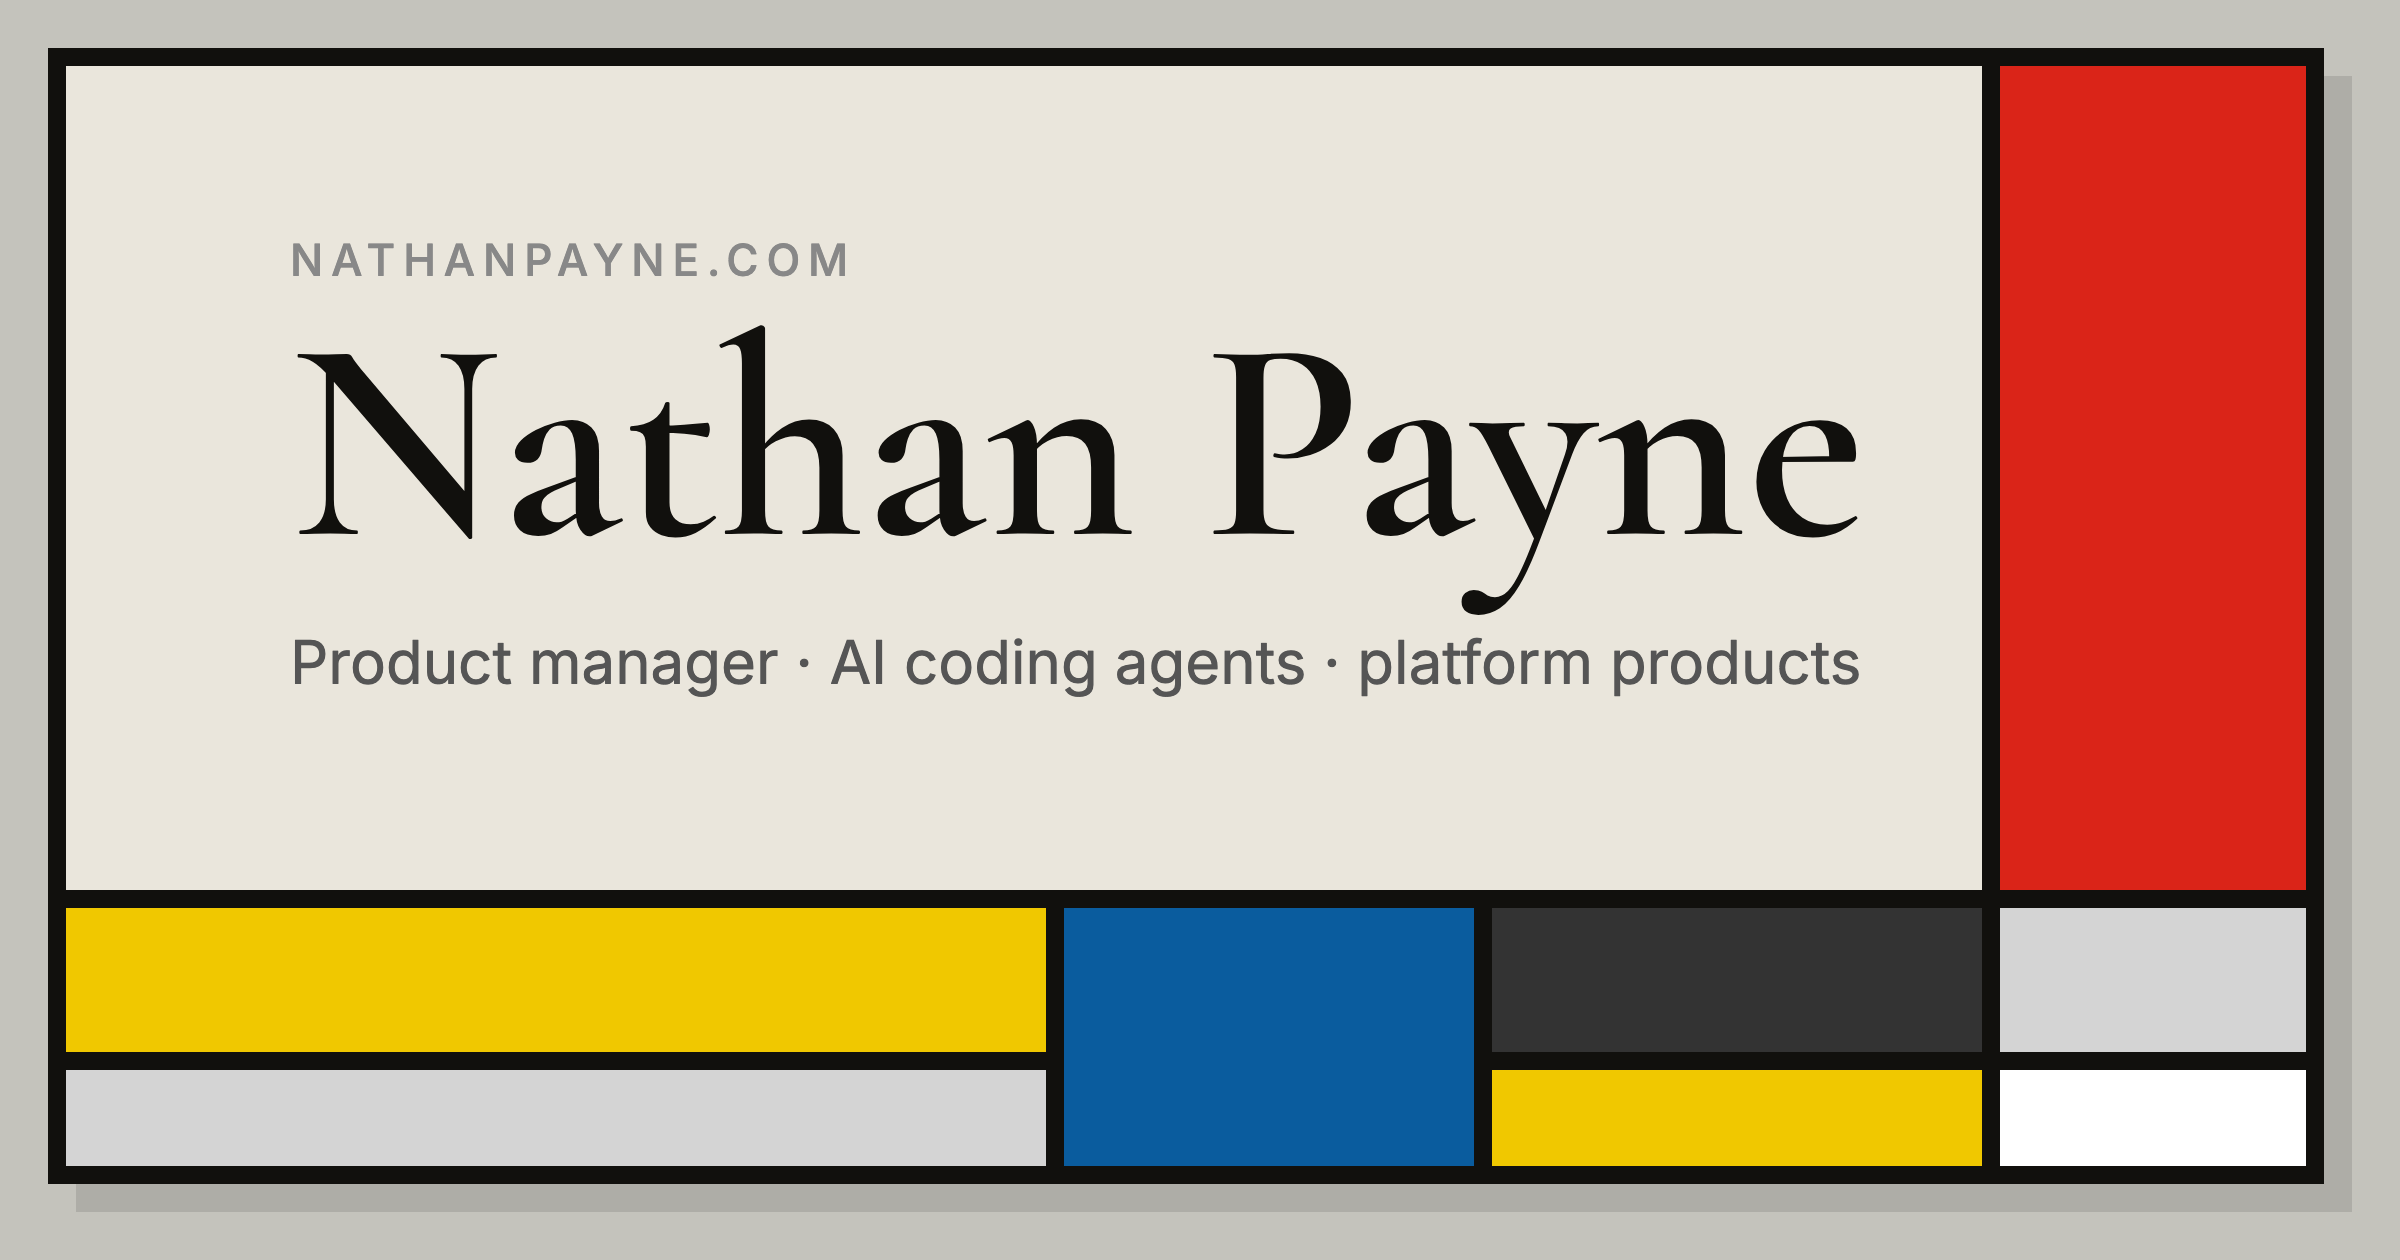
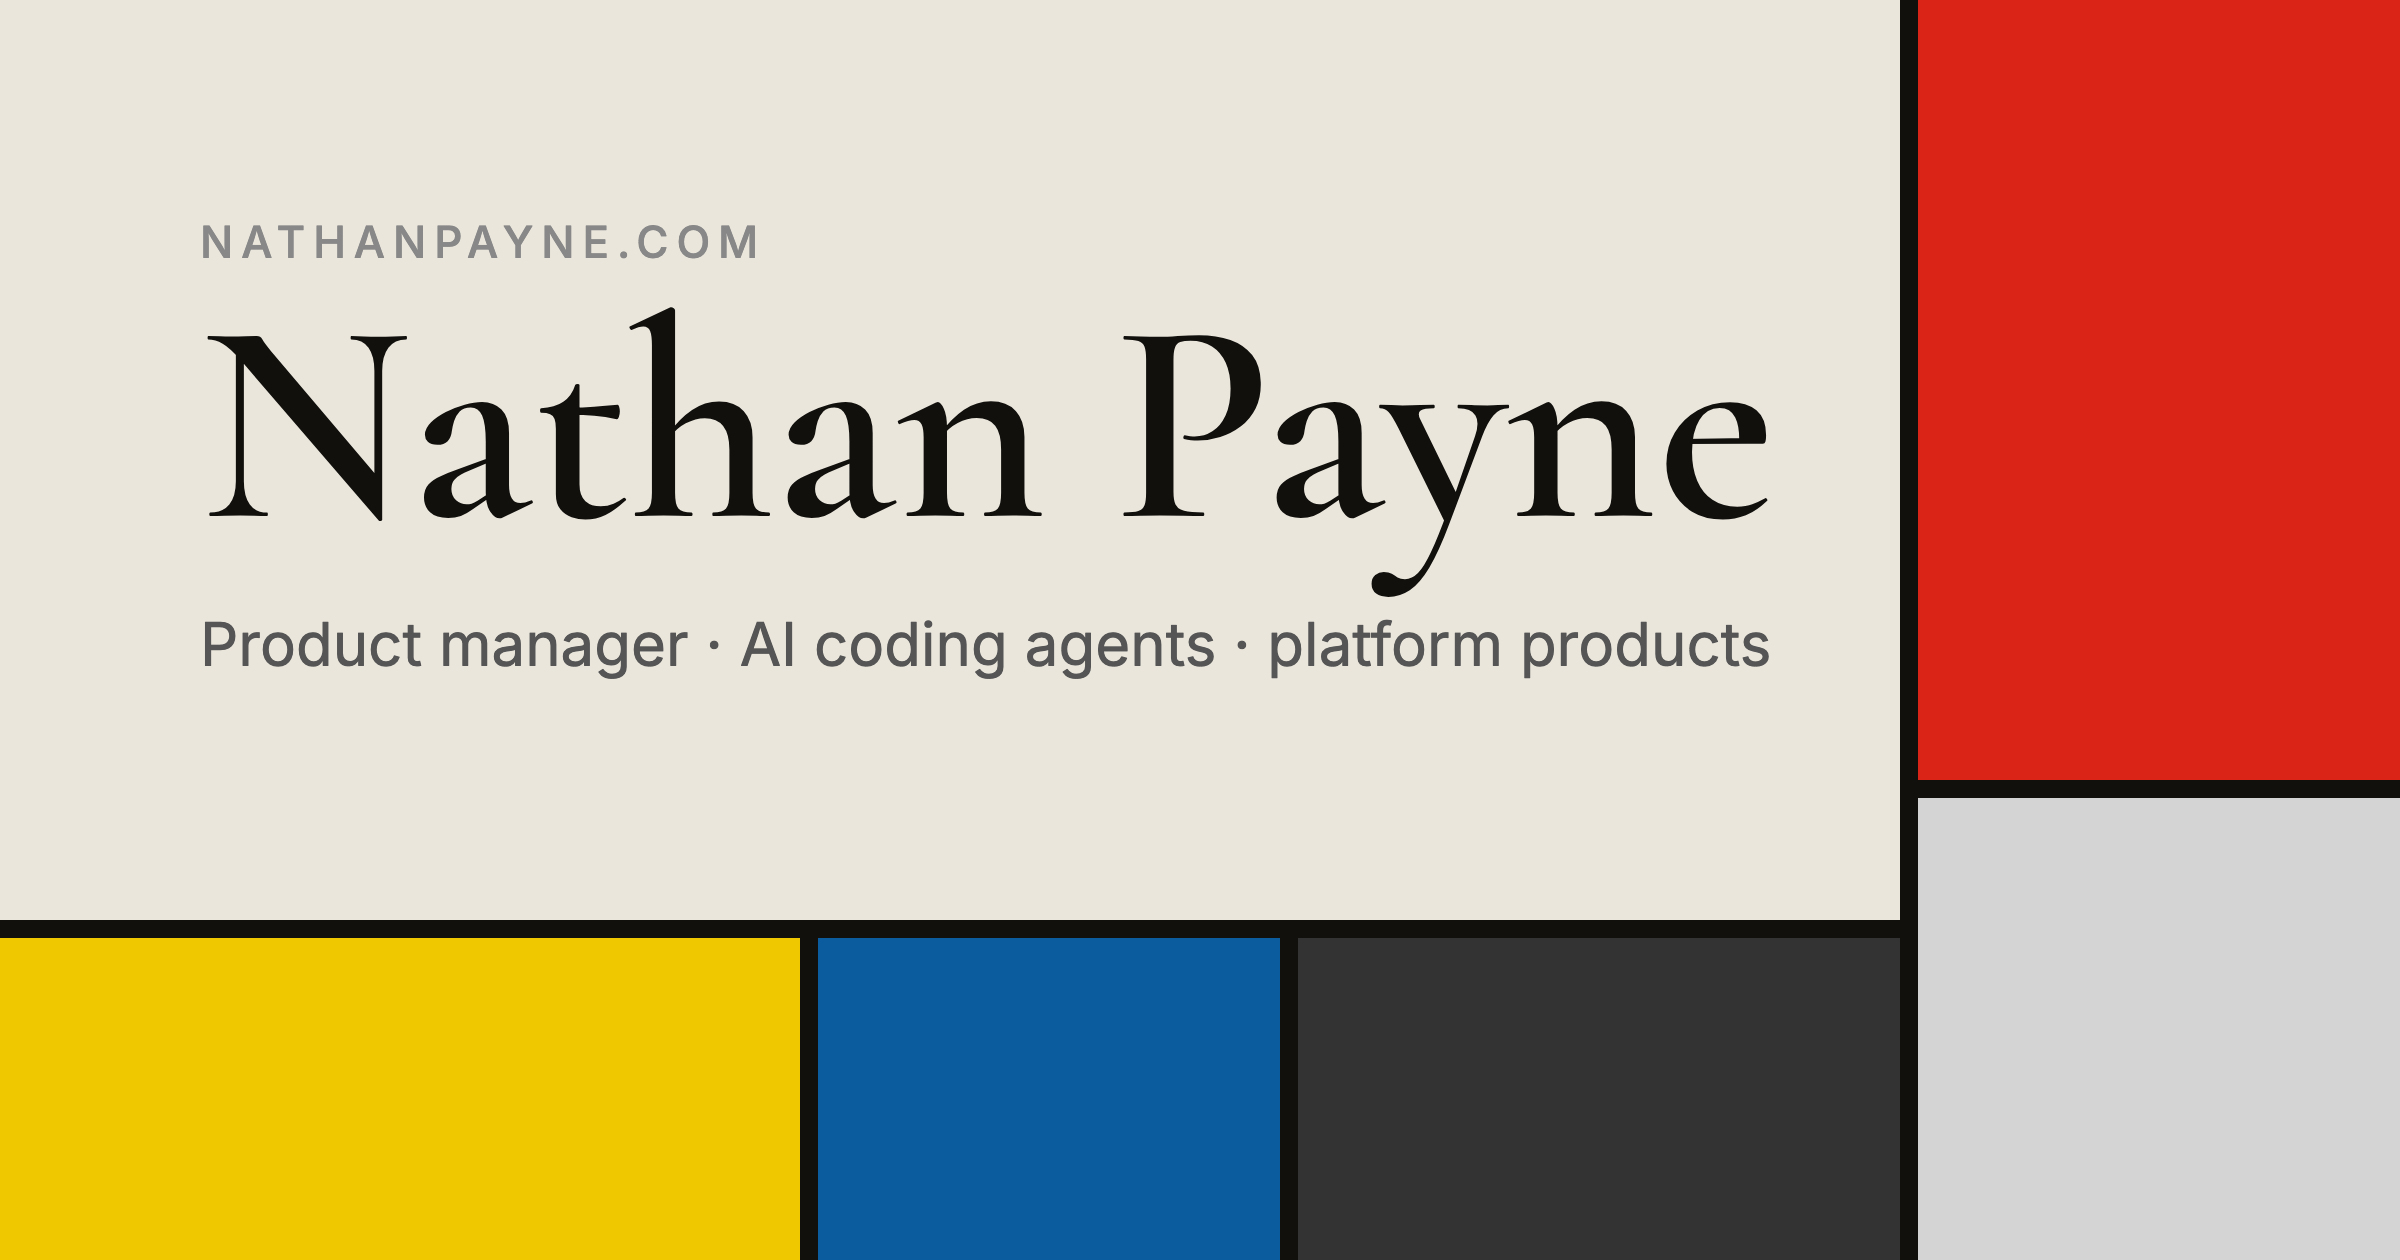
Run the homepage OG card full bleed with no edge structure (#1096)
* Run the homepage OG card full bleed with no edge structure

Link previews crop and round the image differently: X at 2:1, LinkedIn
messaging at about 1.8:1, iMessage with ~30px corner radii at this
scale. The frame-to-edge card (#1090) clipped in iMessage and the gray
mat (#1094) went lopsided in LinkedIn messaging, because anything that
marks the edge survives on some sides and not others.

The crop-safe card now has no stage, frame or shadow. The Mondrian grid
fills the 1200x630 image, every edge cell is a color field that runs off
the edge, and the only lines are interior ones meeting the edge at right
angles, so a crop or rounded corner only trims color. Text sits in the
safe zone (left inset 100px). The layout is Fable's variant V1 from
#1095, chosen by the owner after a simulated review across Facebook, X,
iMessage, Slack, Discord, LinkedIn messaging and a square fallback.

Refs #1095

* docs(og): state the square-fallback trade-off in the crop-safe comment

The comment listed square fallbacks among the crops, then claimed the
text clears every measured crop, which is false for a square. Say which
crops the text clears and that the square trade-off was chosen (#1095).

---------

diff --git a/src/styles/global.css b/src/styles/global.css
@@ -4052,32 +4052,63 @@ a.tag:hover {
   background: var(--paper);
 }
 
-/* Crop-safe variant (OgCard `cropSafe`). Two crops shape it:
-   - Safari's Start Page tiles aspect-fill the card into ~1.67:1, trimming ~6%
-     (~75px here) off each side, and show it ~225pt wide. Hence a wider red
-     column that survives the trim, a left inset that clears it, a heading
-     big enough to read at tile size, and at most a one-line tagline.
-   - iMessage and other unfurls round the image's corners (~30px radius at
-     this scale; Safari's tile ~65px). A frame run to the image edge gets its
-     corners clipped, so a thin stage margin keeps the frame inside the curve.
-     It clears a corner once it exceeds ~0.3× the radius; 24px covers both.
-   The card keeps the shared --canvas-shadow (14px down-right, as on the 404),
-   so the right and bottom margins grow by that offset to leave the shadow the
-   same 24px of gray as the other sides. */
+/* Crop-safe variant (OgCard `cropSafe`). Link previews crop and round the
+   image differently: X shows 2:1 (~15px off top and bottom), LinkedIn
+   messaging ~1.8:1 (~17–33px off each side), iMessage rounds corners (~30px
+   at this scale), and square fallbacks keep only the center 630px (#1095).
+   Any frame, mat or border near the edge survives on some sides and not
+   others (#1090 clipped in iMessage; #1094's mat went lopsided on LinkedIn).
+   So there is no stage, frame or shadow: the grid fills the image, every
+   perimeter cell is a color field that runs off the edge, and the only
+   lines are interior ones meeting the edge at right angles. A crop or a
+   rounded corner then only trims color. Text stays inside x 100–950, y
+   ~110–350, clear of every wide-card crop. Square fallbacks are a known
+   trade-off: their x 285–915 crop shows "than Payne", at ~80px where no
+   text reads anyway. The owner chose this over a centered, two-line name
+   that a square crop keeps (#1095). */
 .og-shell--crop-safe {
-  padding: 24px 38px 38px 24px;
+  display: block;
+  padding: 0;
+  overflow: hidden;
 }
 
 .og-shell--crop-safe .og-card {
-  grid-template-columns: var(--line) 2.4fr var(--line) 1fr var(--line) 1.2fr var(--line) 0.75fr var(
-      --line
-    );
-  grid-template-rows: var(--line) 1fr var(--line) 4.5rem var(--line) 3rem var(--line);
+  width: 1200px;
+  height: 630px;
+  grid-template-columns: 400px var(--line) 231px var(--line) 301px var(--line) 1fr;
+  grid-template-rows: 390px var(--line) 61px var(--line) 1fr;
   border: 0;
+  box-shadow: none;
 }
 
 .og-shell--crop-safe .og-content {
-  padding: 48px 64px 48px 112px;
+  grid-column: 1 / 6;
+  grid-row: 1 / 4;
+  padding: 0 40px 0 100px;
+}
+
+.og-shell--crop-safe .og-red {
+  grid-column: 7;
+  grid-row: 1;
+}
+.og-shell--crop-safe .og-white-a {
+  grid-column: 7;
+  grid-row: 3 / 6;
+}
+.og-shell--crop-safe .og-yellow-a {
+  grid-column: 1;
+  grid-row: 5;
+}
+.og-shell--crop-safe .og-blue {
+  grid-column: 3;
+  grid-row: 5;
+}
+.og-shell--crop-safe .og-black {
+  grid-column: 5;
+  grid-row: 5;
+}
+.og-shell--crop-safe :is(.og-white-b, .og-yellow-b, .og-white-c) {
+  display: none;
 }
 
 .og-shell--crop-safe .og-label {
@@ -4093,7 +4124,7 @@ a.tag:hover {
 }
 
 /* One line, so it reads as a tagline rather than a paragraph shrunk to
-   tile size. Keep the homepage tagline short enough to fit unwrapped. */
+   thumbnail size. Keep the homepage tagline short enough to fit unwrapped. */
 .og-shell--crop-safe .og-description {
   font-size: 30px;
   max-width: none;

diff --git a/tests/og-card-crop-safe.test.js b/tests/og-card-crop-safe.test.js
@@ -26,9 +26,10 @@ function paddingOf(body) {
   return [t, r, b, l];
 }
 
-// Safari's Start Page tiles crop OG images to ~1.67:1 and show them ~225pt
-// wide; iMessage rounds their corners. The homepage card uses the crop-safe
-// variant so neither crop reaches the frame or the text.
+// Link previews crop and round the image differently (#1095): X at 2:1,
+// LinkedIn messaging at ~1.8:1, iMessage with ~30px corners at this scale. A
+// frame (#1090) or a gray mat (#1094) near the edge survives on some sides and
+// not others, so the crop-safe card puts nothing that marks the edge there.
 describe('OG card crop-safe variant', () => {
   it('lets OgCard opt into the crop-safe modifier', () => {
     const source = readFileSync(OG_CARD, 'utf-8');
@@ -49,24 +50,20 @@ describe('OG card crop-safe variant', () => {
     expect(tagline[1].length).toBeLessThanOrEqual(55);
   });
 
-  it('keeps a stage margin that clears rounded preview corners', () => {
-    // A frame clears a rounded corner once the margin exceeds ~0.3× the
-    // radius: ~30px (iMessage) and ~65px (Safari tile) at the 1200px scale.
-    const [top, right, bottom, left] = paddingOf(cropSafeRule('.og-shell--crop-safe'));
-    for (const side of [top, right, bottom, left]) {
-      expect(side).toBeGreaterThanOrEqual(20);
-    }
-    // The card's 14px --canvas-shadow falls right and down; those margins hold
-    // it and still leave gray beyond it for the corner to round.
-    expect(right - 14).toBeGreaterThanOrEqual(20);
-    expect(bottom - 14).toBeGreaterThanOrEqual(20);
+  it('puts no stage margin, border or shadow at the image edge', () => {
+    expect(paddingOf(cropSafeRule('.og-shell--crop-safe'))).toEqual([0, 0, 0, 0]);
+
+    const card = cropSafeRule('.og-shell--crop-safe .og-card');
+    expect(card).toMatch(/border:\s*0;/);
+    expect(card).toMatch(/box-shadow:\s*none;/);
+    expect(card).toMatch(/width:\s*1200px;/);
+    expect(card).toMatch(/height:\s*630px;/);
   });
 
-  it("keeps the text inset deeper than Safari's side trim", () => {
-    // Safari trims ~75px off each side of the 1200px card; the text starts at
-    // the stage margin plus the content inset.
-    const [, , , margin] = paddingOf(cropSafeRule('.og-shell--crop-safe'));
-    const [, , , inset] = paddingOf(cropSafeRule('.og-shell--crop-safe .og-content'));
-    expect(margin + inset).toBeGreaterThan(75);
+  it('keeps the text inside the safe zone every preview keeps', () => {
+    // Wide-card crops take up to ~33px off a side; Slick Media's template puts
+    // text at least ~70px in. The content cell starts at the image's left edge.
+    const [, , , left] = paddingOf(cropSafeRule('.og-shell--crop-safe .og-content'));
+    expect(left).toBeGreaterThanOrEqual(70);
   });
 });

diff --git a/docs/css-architecture.md b/docs/css-architecture.md
@@ -98,7 +98,7 @@ represents a page: `og-templates/home.astro` passes `palette="1930"` to
 `OgCard.astro`, so `home.png` matches the homepage register. Other OG cards do
 not pass a palette and stay on the 1921 `:root` default.
 
-The homepage card also passes `cropSafe`, which thins the stage margin to 24px (38px on the right and bottom, where the shared `--canvas-shadow` sits), sets the name at 144px, and replaces the three-line description with a one-line tagline. Safari's Start Page tiles crop OG images to about 1.67:1 and show them about 225pt wide, which sliced the original framed card and made its description unreadable (#1090). Running the frame to the image edge fixed that but let iMessage's rounded corners clip it, so the margin stays, just thin. The full description still reaches previews through `og:description`.
+The homepage card also passes `cropSafe`, which drops the stage, frame and shadow so the Mondrian grid fills the image edge to edge, sets the name at 144px, and replaces the three-line description with a one-line tagline. Link previews crop and round the image differently (X at 2:1, LinkedIn messaging at about 1.8:1, iMessage with about 30px corner radii at this scale), so anything that marks the edge, whether a frame (#1090) or a gray mat (#1094), survives on some sides and not others. With only color fields at the edges, a crop or rounded corner just trims color (#1095). The full description still reaches previews through `og:description`.
 
 | Page | Accent source |
 |---|---|
